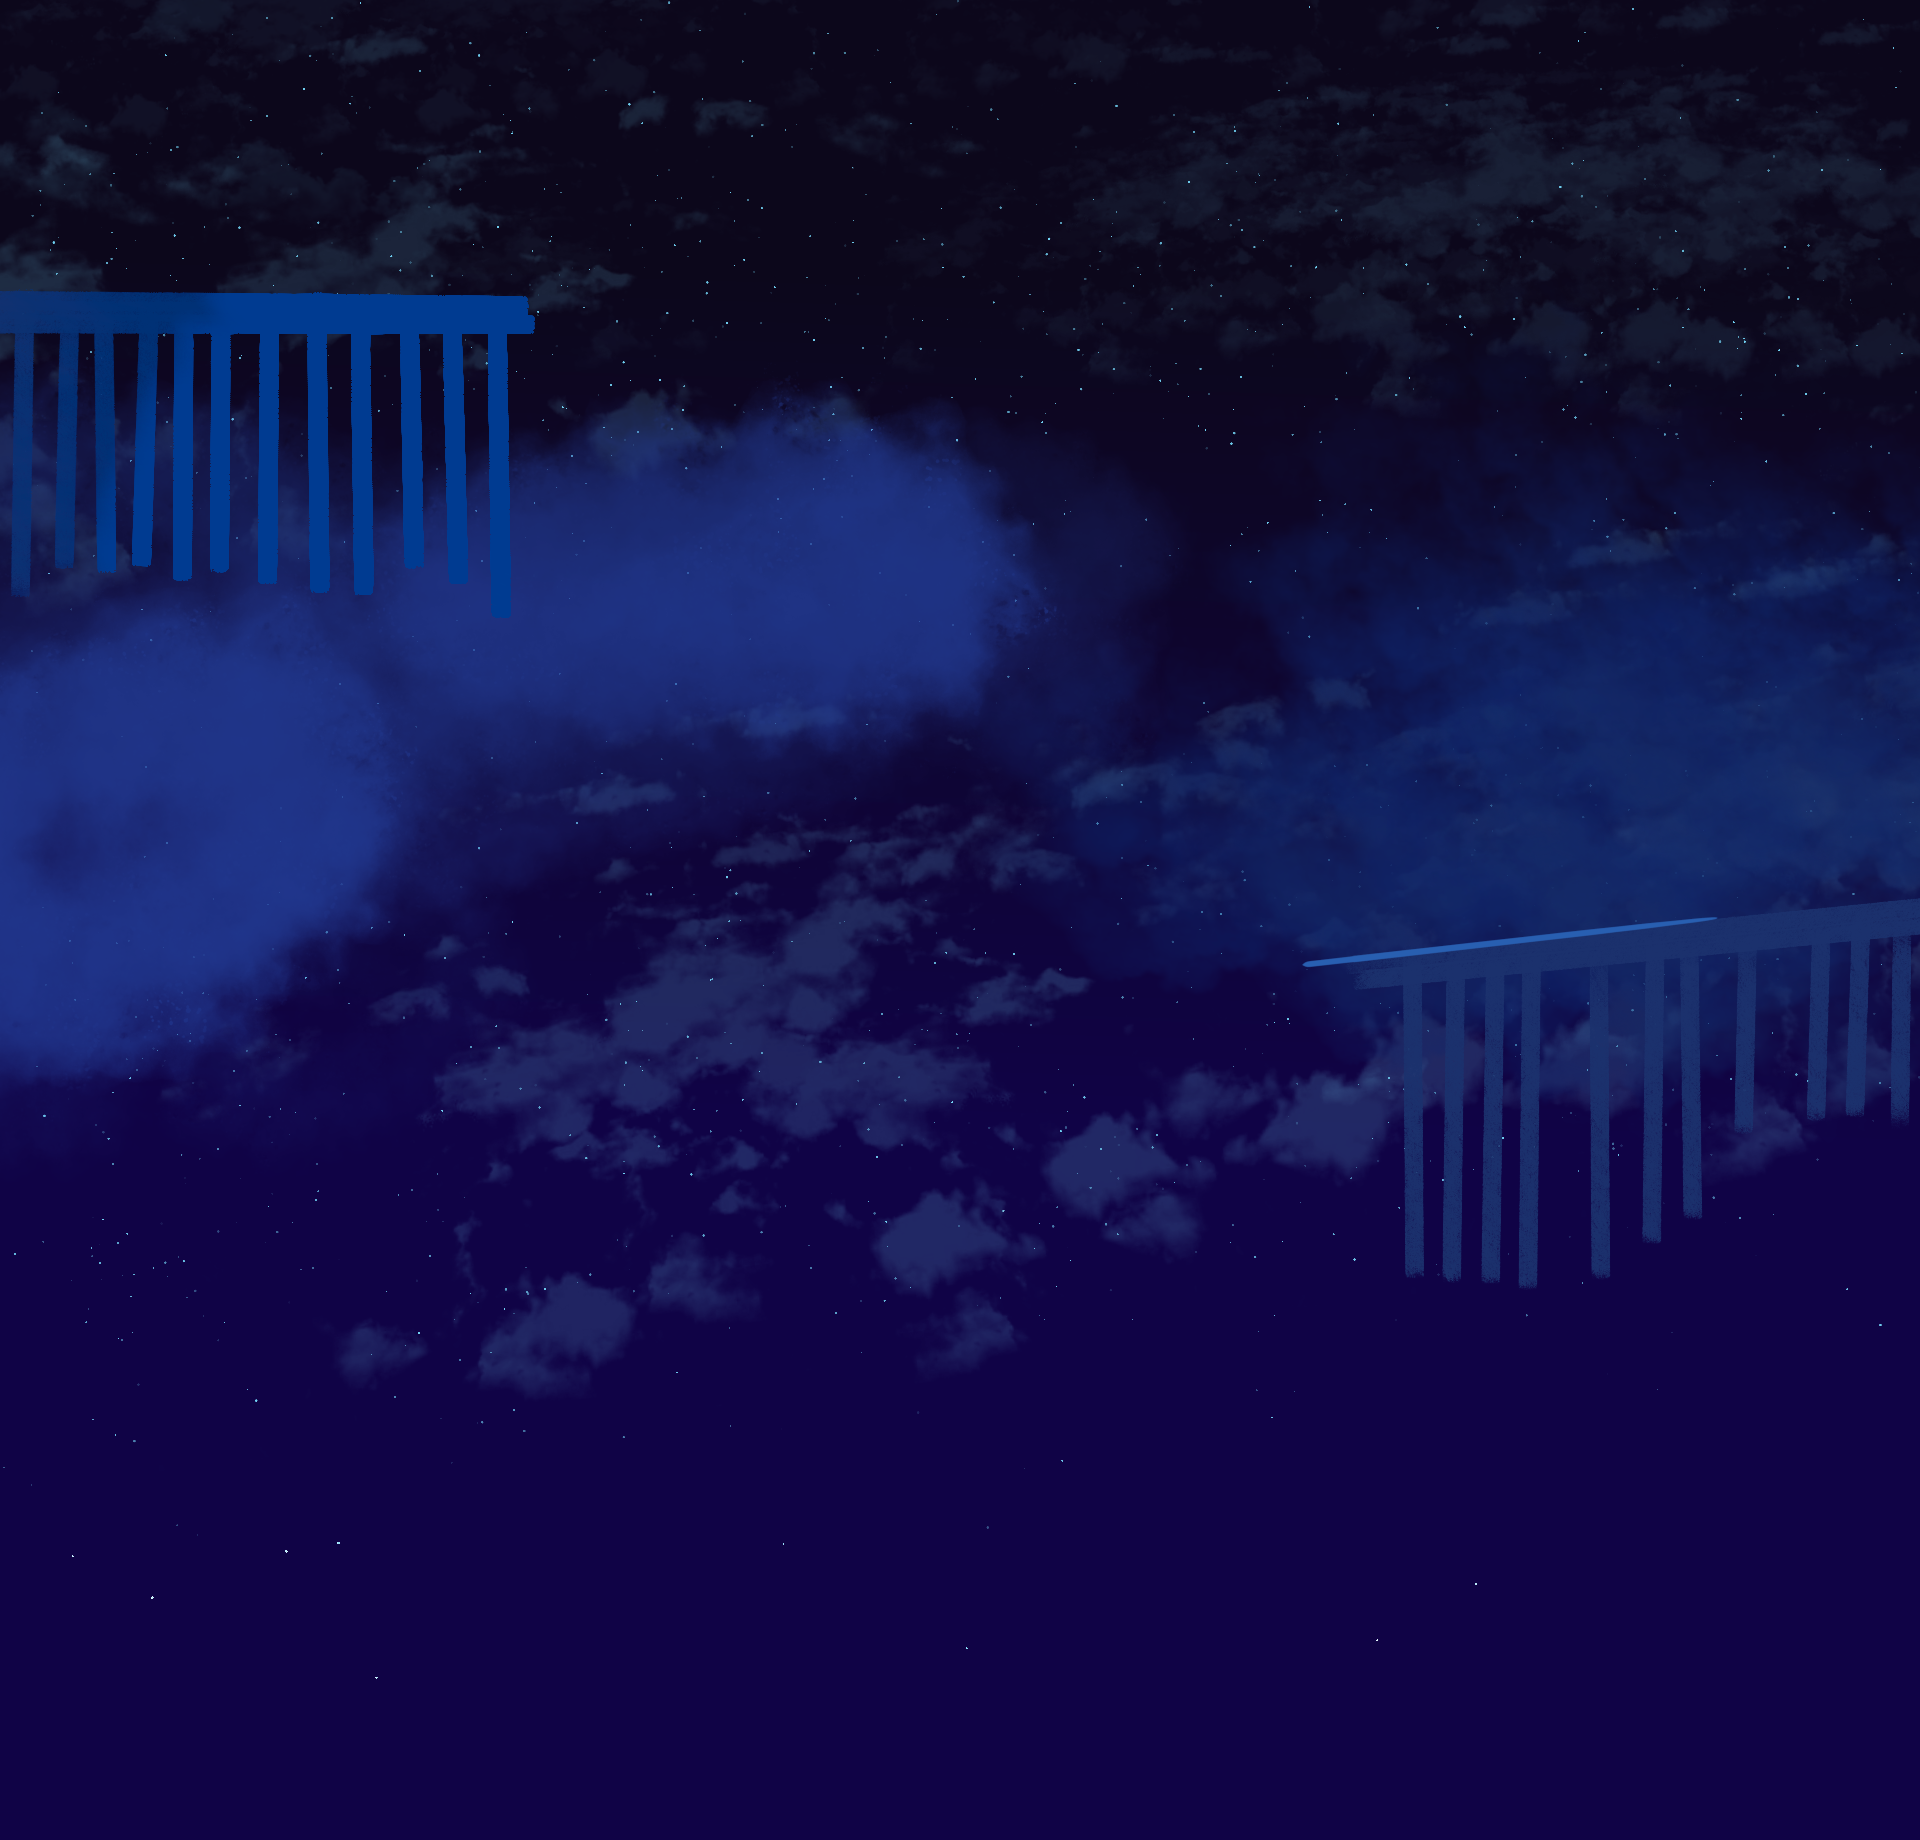
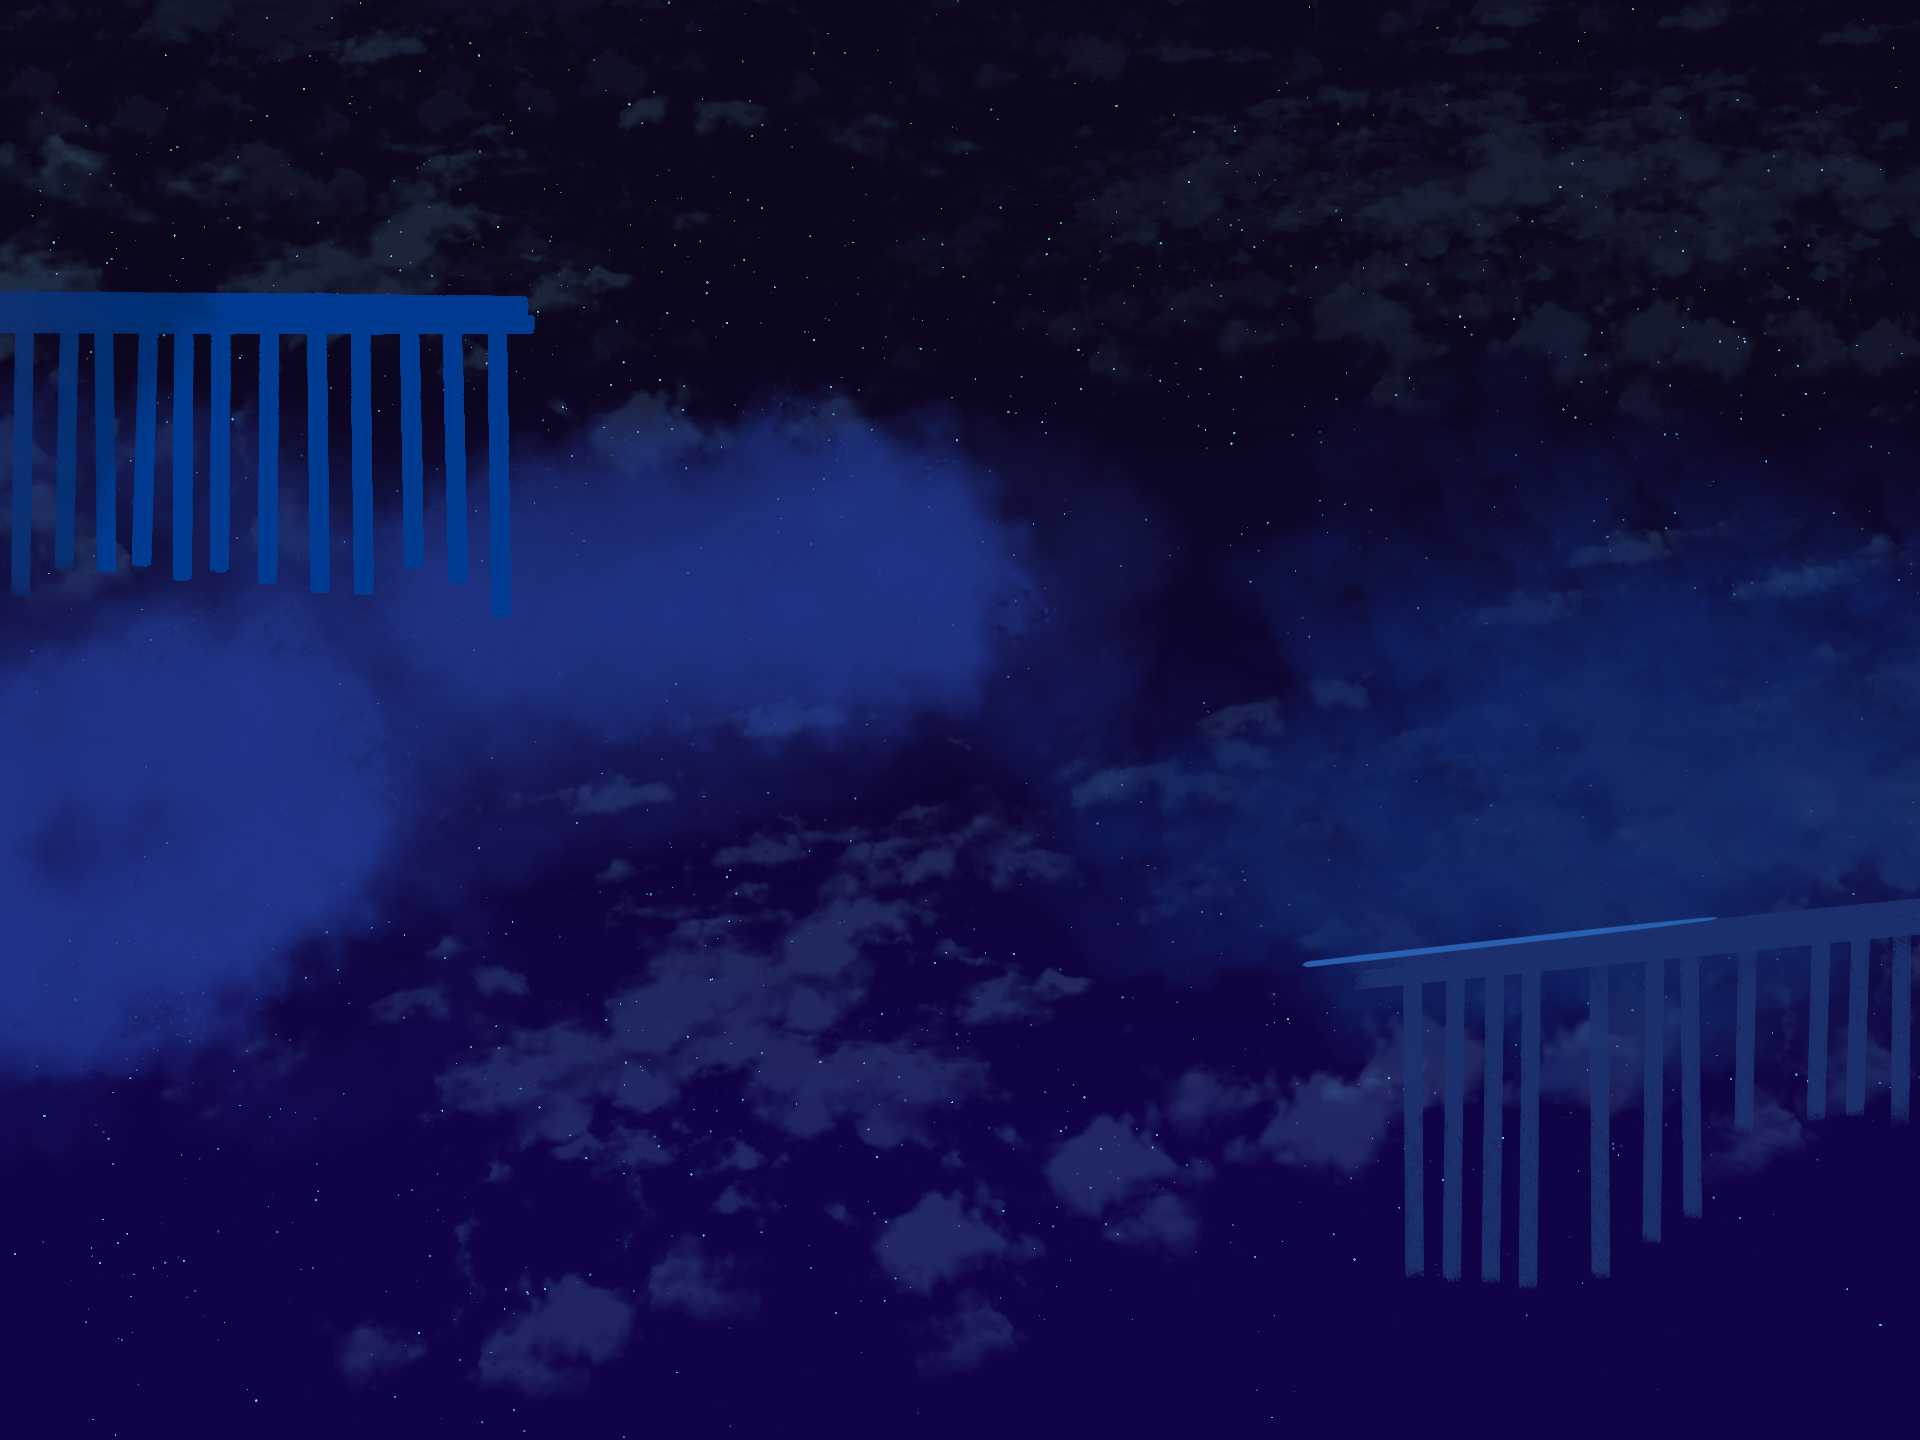
fix: remove background pillars asset from creating a seam on large widths-3840px

diff --git a/apps/site/src/app/(main)/(home)/sections/Landing/Landing.tsx b/apps/site/src/app/(main)/(home)/sections/Landing/Landing.tsx
@@ -79,7 +79,7 @@ const Landing = () => {
 								src={FarPillars}
 								priority
 								alt="background pillars"
-								className="absolute min-w-[570px] w-full"
+								className="absolute min-w-[570px] w-full 2xl:max-h-[2500px]"
 								onLoad={() => setLoaded((loaded) => loaded + 1)}
 							/>
 						</div>
